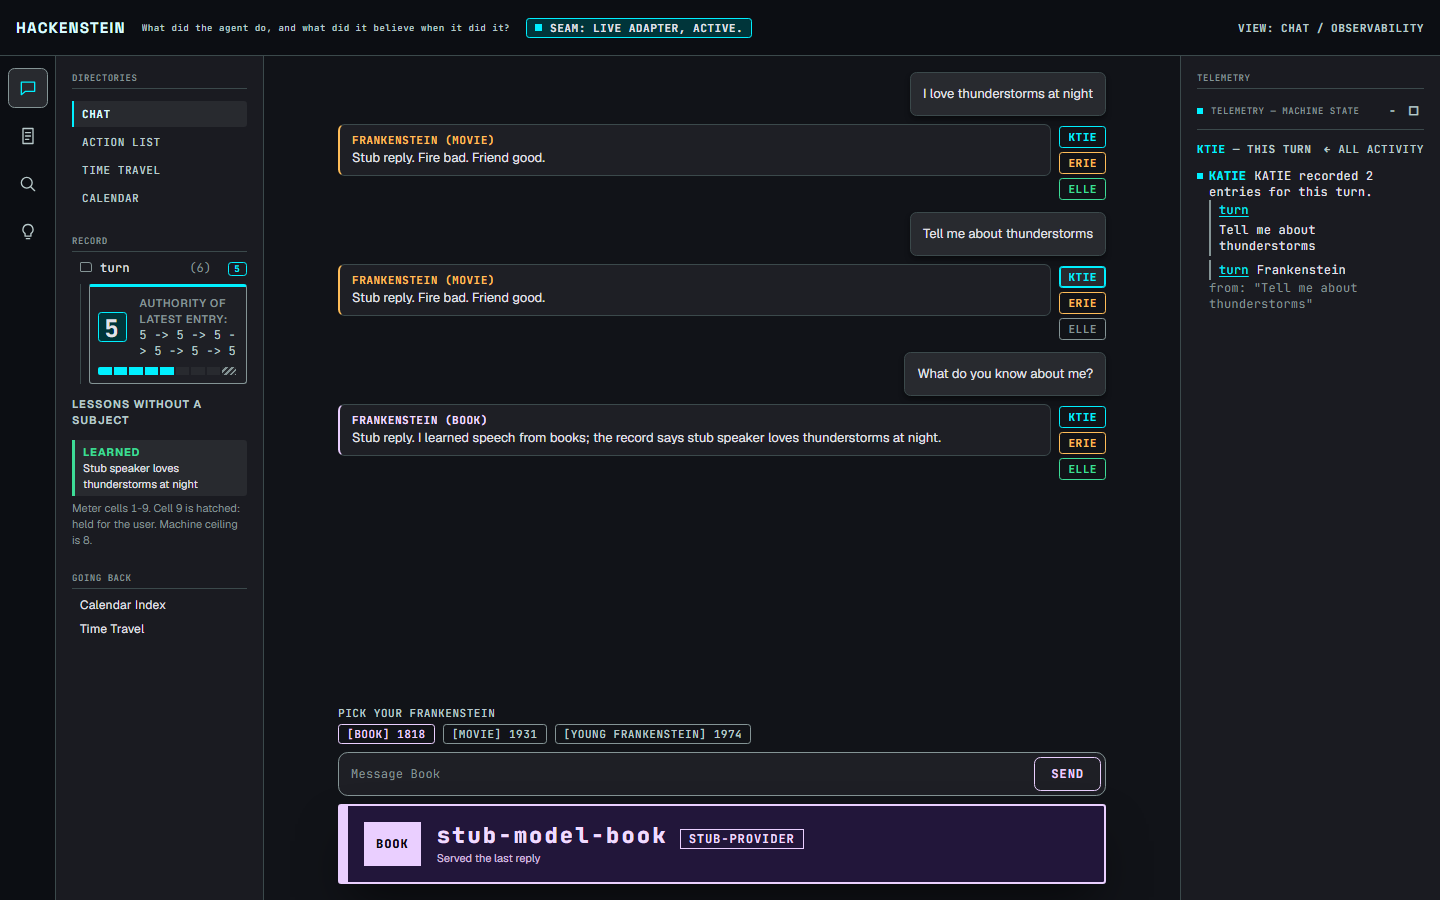
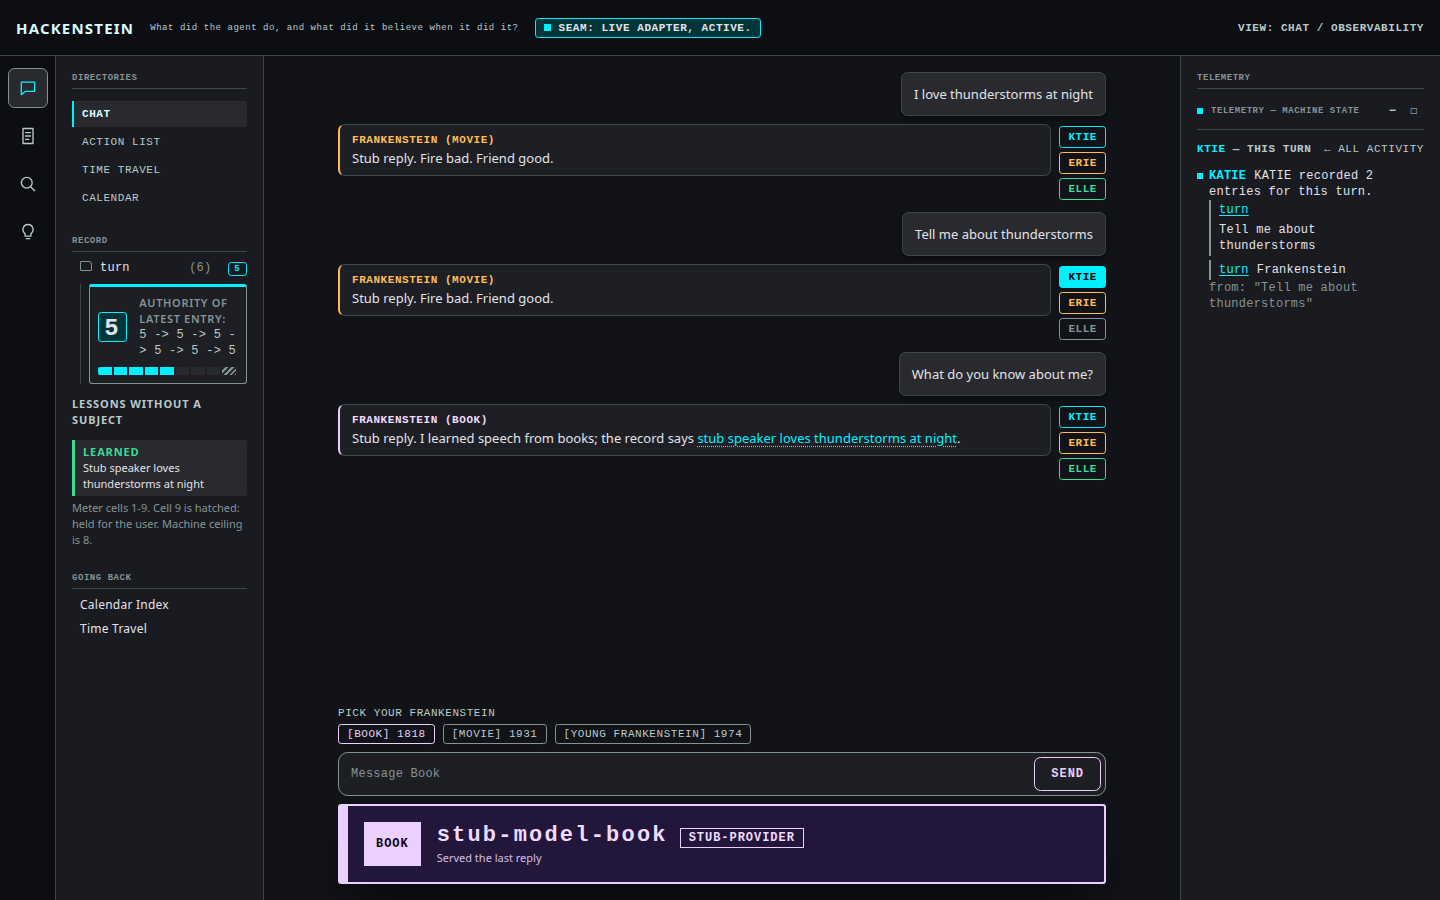
Refresh detail shots for the solid selected box
Shots 03-06 re-taken on feat/engine-boxes @ 2da6764: the pressed box
now fills solid in its engine colour with black letters (KTIE cyan,
ERIE amber, ELLE green, dark ELLE grey). Footer updated to head
2b261fc (419 tests, click on press).

diff --git a/engine-boxes.html b/engine-boxes.html
@@ -103,8 +103,11 @@
   </figure>
 </main>
 <footer>
-  <p>Branch <code>feat/engine-boxes</code> (head <code>3877faa</code>), verified: 417 tests pass.
-  Shots are byte-identical copies from <code>docs/engine-boxes-proof/</code> on the branch.</p>
+  <p>Branch <code>feat/engine-boxes</code> (head <code>2b261fc</code>), verified: 419 tests pass.
+  The pressed box goes solid in its engine colour with black letters, and makes a
+  light tiny click on press. Shots are byte-identical copies from
+  <code>docs/engine-boxes-proof/</code> on the branch; shots 03–06 were re-taken
+  for the solid selected box.</p>
 </footer>
 </body>
 </html>
